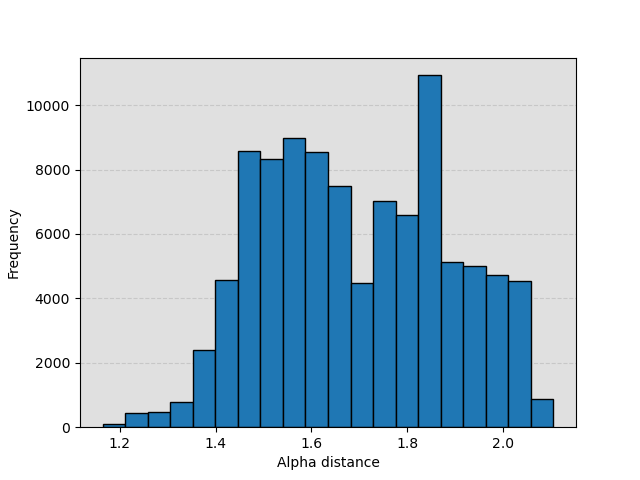
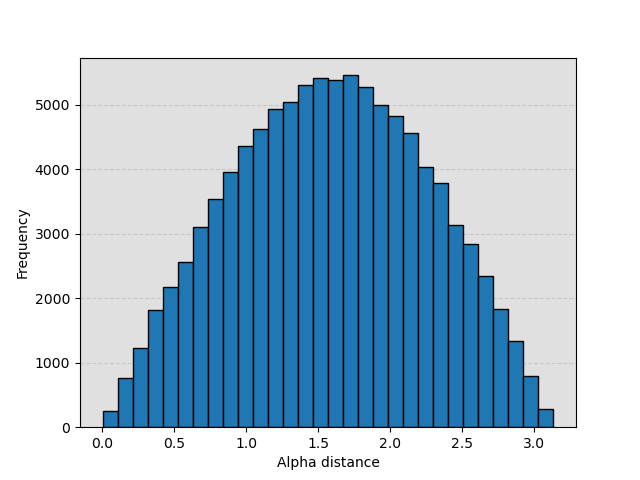
modify potential to make pdf well defined

diff --git a/many_bodyMCMC/potential_pycuda_user_defined.py b/many_bodyMCMC/potential_pycuda_user_defined.py
@@ -5,39 +5,46 @@ from quaternion_integrator.quaternion import Quaternion
 
 #def HGO(r,quaternion_i,quaternion_j):
 def HGO(x,q):
-    #coord on the format [0 r,quaternion_i,quaternion_j
     # set parameters
     r = x[3:6]-x[0:3]
-    #print("distance")
-    #print(np.linalg.norm(r))
-    quaternion_j = Quaternion(q[0:4]) #How to create a quaternion?
-    quaternion_i = Quaternion(q[4:])
+    L = 0.5 # particle length
+    cut_off = 5*L 
 
-    #a = 0.5 to start with
-    a = 0.5
-    b = a/10 #perpendicular coeff
-    p = 100  #strength of the potential
-    chi = (a**2-b**2)/(a**2+b**2)
-    s = np.sqrt(2)*b
+    if np.linalg.norm(r) < cut_off:
+        #print("distance")
+        #print(np.linalg.norm(r))
+        quaternion_j = Quaternion(q[0:4]) #How to create a quaternion?
+        quaternion_i = Quaternion(q[4:])
 
-    Ru = r/np.linalg.norm(r)
+        #a = 0.5 to start with
+        a = 0.5
+        #a = 0.2
+        b = a/10 #perpendicular coeff
+        p = 20  #strength of the potential
+        chi = (a**2-b**2)/(a**2+b**2)
+        s = np.sqrt(2)*b
 
-    R = quaternion_i.rotation_matrix()
-    u1 = R[:,2]
-    R = quaternion_j.rotation_matrix()
-    u2 = R[:,2]
-    epsilon = p*(1-chi**2*np.dot(u1,u2)**2)**(-1/2)
+        Ru = r/np.linalg.norm(r)
 
-    RuU1 = np.dot(Ru,u1)
-    RuU2 = np.dot(Ru,u2)
+        R = quaternion_i.rotation_matrix()
+        u1 = R[:,2]
+        R = quaternion_j.rotation_matrix()
+        u2 = R[:,2]
+        epsilon = p*(1-chi**2*np.dot(u1,u2)**2)**(-1/2)
 
-    term2 = (RuU1-RuU2)**2/(1-chi*(np.dot(u1,u2)))
-    sigma = s*(1-0.5*chi*((RuU1+RuU2)**2/(1+chi*(np.dot(u1,u2)))+term2))**(-1/2)
-    # print(chi)
-    # print(sigma)
-    # print(-np.linalg.norm(r)**2/(sigma**2))
-    # print(np.linalg.norm(r)**2)
-    return epsilon*np.exp((-np.linalg.norm(r)**2)/(sigma**2))
+        RuU1 = np.dot(Ru,u1)
+        RuU2 = np.dot(Ru,u2)
+
+        term2 = (RuU1-RuU2)**2/(1-chi*(np.dot(u1,u2)))
+        sigma = s*(1-0.5*chi*((RuU1+RuU2)**2/(1+chi*(np.dot(u1,u2)))+term2))**(-1/2)
+        # print(chi)
+        # print(sigma)
+        # print(-np.linalg.norm(r)**2/(sigma**2))
+        # print(np.linalg.norm(r)**2)
+        return epsilon*np.exp((-np.linalg.norm(r)**2)/(sigma**2))
+    else:
+        return float('inf')
+
 
 
 def compute_total_energy(bodies, r_vectors, *args, **kwargs):

diff --git a/many_bodyMCMC/many_body_MCMC.py b/many_bodyMCMC/many_body_MCMC.py
@@ -108,7 +108,7 @@ if __name__ == '__main__':
   blob_radius = read.blob_radius
   periodic_length = read.periodic_length
   max_translation = blob_radius * 0.1
-  max_translation = 0.01 #just to try
+  max_translation = 1.3 #just to try
   weight = 1.0 * read.g
   kT = read.kT
 
@@ -131,7 +131,7 @@ if __name__ == '__main__':
         b.prescribed_kinematics = True
       bodies.append(b)
   bodies = np.array(bodies)
-  
+
   # Set some more variables
   num_bodies = bodies.size
   Nblobs = sum([x.Nblobs for x in bodies])

diff --git a/multi_bodies/rods/tools/pair_histograms.py b/multi_bodies/rods/tools/pair_histograms.py
@@ -272,7 +272,7 @@ def getAlpha(x1,x2):
 
 
 filename = "../../../many_bodyMCMC/run.two.config"
-numSteps = 1e6 # number of MCMC runs
+numSteps = 100000 # number of MCMC runs
 L = 0.5 #particle lenght
 R = 0.025
 
